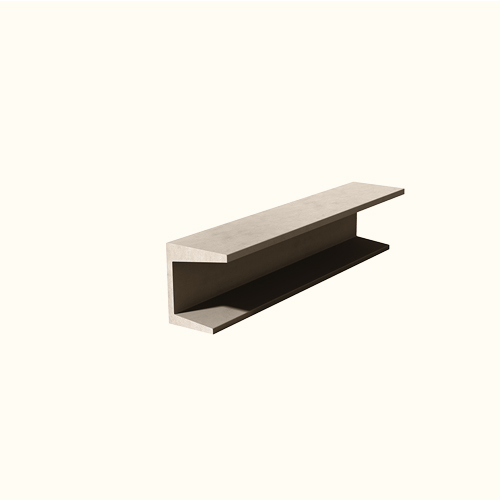
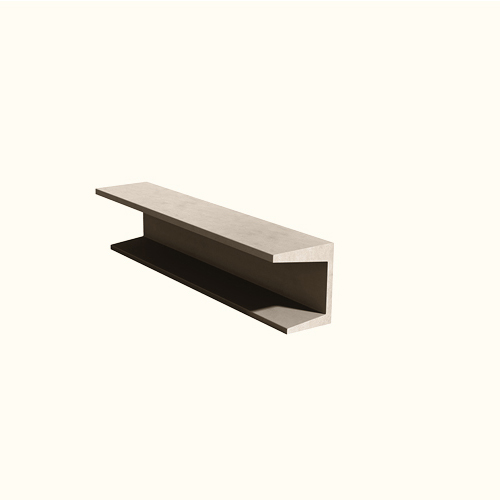
photos produits

Changed region(s): [[0.18, 0.36, 0.81, 0.69]]

diff --git a/src/pages/Grands-comptes.vue b/src/pages/Grands-comptes.vue
@@ -2,44 +2,49 @@
   <Layout>
     <h1> Nos dossiers d'exception </h1>
 
-    <h2> Les grands comptes </h2>
-    <div class="section__exception">
-      <h3> La SNCF </h3>
-      <p> On a refait l'intérieur des gares</p>
-    </div>
+    <section>
+      <h2> Les grands comptes </h2>
+      <div class="section__exception">
+        <h3> La SNCF </h3>
+        <p> On a refait l'intérieur des gares</p>
+      </div>
 
-    <div class="section__exception">
-      <h3> Paris Saclay </h3>
-      <p> Projet tolerie forezienne </p>
-    </div>
+      <div class="section__exception">
+        <h3> Paris Saclay </h3>
+        <p> Projet tolerie forezienne </p>
+      </div>
 
-    <div class="section__exception">
-      <h3> Le Grand Paris </h3>
-      <p> Projet monumental du renouvellement des gares</p>
-    </div>
+      <div class="section__exception">
+        <h3> Le Grand Paris </h3>
+        <p> Projet monumental du renouvellement des gares</p>
+      </div>
+    </section>
+    <section>
+      <h2> Les sur-mesure </h2>
 
+      <div class="section__exception">
+        <h3> Roquefert</h3>
+        <p> On a imprimé des feuilles sur les bancs </p>
+      </div>
 
-    <h2> Les sur-mesure </h2>
+      <div class="section__exception">
+        <h3> Le Trocadéro </h3>
+        <p> Des jaridinières </p>
+      </div>
+    </section>
+    <section>
+      <h2> Les démesurés </h2>
 
-    <div class="section__exception">
-      <h3> Roquefert</h3>
-      <p> On a imprimé des feuilles sur les bancs </p>
-    </div>
+      <div class="section__exception">
+        <h3> Vertable </h3>
+        <p> Une table infinie </p>
+      </div>
 
-    <div class="section__exception">
-      <h3> Le Trocadéro </h3>
-      <p> Des jaridinières </p>
-    </div>
-
-    <div class="section__exception">
-      <h3> Vertable </h3>
-      <p> Une table infinie </p>
-    </div>
-
-    <div class="section__exception">
-      <h3> Carnon </h3>
-      <p> Des transats infinis </p>
-    </div>
+      <div class="section__exception">
+        <h3> Carnon </h3>
+        <p> Des transats infinis </p>
+      </div>
+    </section>
   </Layout>
 </template>
 
@@ -58,6 +63,10 @@ export default {
 </script>
 
 <style scoped>
+
+section {
+  margin-top : 2rem;
+}
 .contenu {
   gap : 0;
 }

diff --git a/content/products-drafts/canape-stamp-window.md b/content/products-drafts/canape-stamp-window.md
@@ -1,0 +1,25 @@
+---
+title: Canapé STAMP window 
+published: TRUE
+designer: Sovann Kim
+collection: Mobilier urbain
+category: Assise
+sub_category: 07 Canapé
+gamme: STAMP
+finitions: window
+cover_image: "../../images/cover_image/canape-stamp-window.jpg"
+caroussel: 
+- "../../images/banquette-elium-parc.jpg"
+- "../../images/fauteuil-et-table.jpg"
+filaire: 
+ - "../../images/filaires/filaire-cantine-04.png"
+ - "../../images/filaires/filaire-chaise-longue-obrac.png"
+reference: CASTAMP0201
+materiau: Béton Fibré à Ultra-hautes Performances (BFUP)
+poids: 366
+dimensions: L1800 x P550 x H830 
+format: Multibloc
+traitement: ""
+tags: 
+description: ""
+---

diff --git a/content/products-drafts/banc-stamp-window.md b/content/products-drafts/banc-stamp-window.md
@@ -1,0 +1,25 @@
+---
+title: Banc STAMP window 
+published: TRUE
+designer: Sovann Kim
+collection: Mobilier urbain
+category: Assise
+sub_category: 06 Banc
+gamme: STAMP
+finitions: window
+cover_image: "../../images/cover_image/banc-stamp-window.jpg"
+caroussel: 
+- "../../images/banquette-elium-parc.jpg"
+- "../../images/fauteuil-et-table.jpg"
+filaire: 
+ - "../../images/filaires/filaire-cantine-04.png"
+ - "../../images/filaires/filaire-chaise-longue-obrac.png"
+reference: BSSTAMP0201
+materiau: Béton Fibré à Ultra-hautes Performances (BFUP)
+poids: 352
+dimensions: L1800 x P550 x H830 
+format: Monobloc
+traitement: ""
+tags: 
+description: ""
+---

diff --git a/content/products/module-hook-l1125-bois.md b/content/products/module-hook-l1125-bois.md
@@ -1,5 +1,5 @@
 ---
-title: Module HOOK L1125 1 BAL
+title: Module HOOK L1125
 published: TRUE
 designer: Spritz
 collection: HOOK
@@ -7,7 +7,7 @@ category: Module
 sub_category: Module
 gamme: HOOK
 finitions: L1125 bois
-cover_image: "../../images/cover_image/banc-obrac.jpg"
+cover_image: "../../images/cover_image/hook-1125-double-alu-compo.jpg"
 caroussel: 
 - "../../images/banquette-elium-parc.jpg"
 - "../../images/fauteuil-et-table.jpg"

diff --git a/content/products/potelet-origami.md b/content/products/potelet-origami.md
@@ -1,5 +1,5 @@
 ---
-title: Potelet fixe 
+title: Potelet fixe ORIGAMI
 published: TRUE
 designer: Forma6
 collection: Mobilier urbain
@@ -7,7 +7,7 @@ category: Potelet
 sub_category: 17 Potelet
 gamme: ORIGAMI
 finitions: 
-cover_image: "../../images/cover_image/banc-obrac.jpg"
+cover_image: "../../images/cover_image/potelet-fixe-origami.jpg"
 caroussel: 
 - "../../images/banquette-elium-parc.jpg"
 - "../../images/fauteuil-et-table.jpg"

diff --git a/content/products/module-hook-l765-bois.md b/content/products/module-hook-l765-bois.md
@@ -1,5 +1,5 @@
 ---
-title: Module HOOK L765 sans BAL
+title: Module HOOK L765
 published: TRUE
 designer: Spritz
 collection: HOOK
@@ -7,7 +7,7 @@ category: Assise
 sub_category: Module
 gamme: HOOK
 finitions: L765 bois
-cover_image: "../../images/cover_image/banc-obrac.jpg"
+cover_image: "../../images/cover_image/hook-765-bois.jpg"
 caroussel: 
 - "../../images/banquette-elium-parc.jpg"
 - "../../images/fauteuil-et-table.jpg"

diff --git a/content/products/banquette-beam-simple.md b/content/products/banquette-beam-simple.md
@@ -7,7 +7,7 @@ category: Assise
 sub_category: 05 Banquette
 gamme: BEAM 
 finitions: simple
-cover_image: "../../images/cover_image/banquette-beam-simple.jpg"
+cover_image: "../../images/cover_image/banquette-beam.jpg"
 caroussel: 
 - "../../images/banquette-elium-parc.jpg"
 - "../../images/fauteuil-et-table.jpg"

diff --git a/content/products/banquette-vertable-pm.md b/content/products/banquette-vertable-pm.md
@@ -7,7 +7,7 @@ category: Assise
 sub_category: 05 Banquette
 gamme: VERTABLE
 finitions: PM
-cover_image: "../../images/cover_image/banc-obrac.jpg"
+cover_image: "../../images/cover_image/banquette-vertable-pm.jpg"
 caroussel: 
 - "../../images/banquette-elium-parc.jpg"
 - "../../images/fauteuil-et-table.jpg"

diff --git a/content/products/banquette-vertable.md b/content/products/banquette-vertable.md
@@ -7,7 +7,7 @@ category: Assise
 sub_category: 05 Banquette
 gamme: VERTABLE
 finitions: 
-cover_image: "../../images/cover_image/banc-obrac.jpg"
+cover_image: "../../images/cover_image/banquette-vertable.jpg"
 caroussel: 
 - "../../images/banquette-elium-parc.jpg"
 - "../../images/fauteuil-et-table.jpg"

diff --git a/content/products/sofa-stamp-window.md b/content/products/sofa-stamp-window.md
@@ -7,7 +7,7 @@ category: Assise
 sub_category: 06 Sofa
 gamme: STAMP
 finitions: window
-cover_image: "../../images/cover_image/banc-obrac.jpg"
+cover_image: "../../images/cover_image/sofa-stamp-window.jpg"
 caroussel: 
 - "../../images/banquette-elium-parc.jpg"
 - "../../images/fauteuil-et-table.jpg"

diff --git a/content/products/banc-carlita.md b/content/products/banc-carlita.md
@@ -7,7 +7,7 @@ category: Assise
 sub_category: 06 Banc
 gamme: CARLITA
 finitions: 
-cover_image: "../../images/cover_image/banc-obrac.jpg"
+cover_image: "../../images/cover_image/banc-carlita.jpg"
 caroussel: 
 - "../../images/banquette-elium-parc.jpg"
 - "../../images/fauteuil-et-table.jpg"
